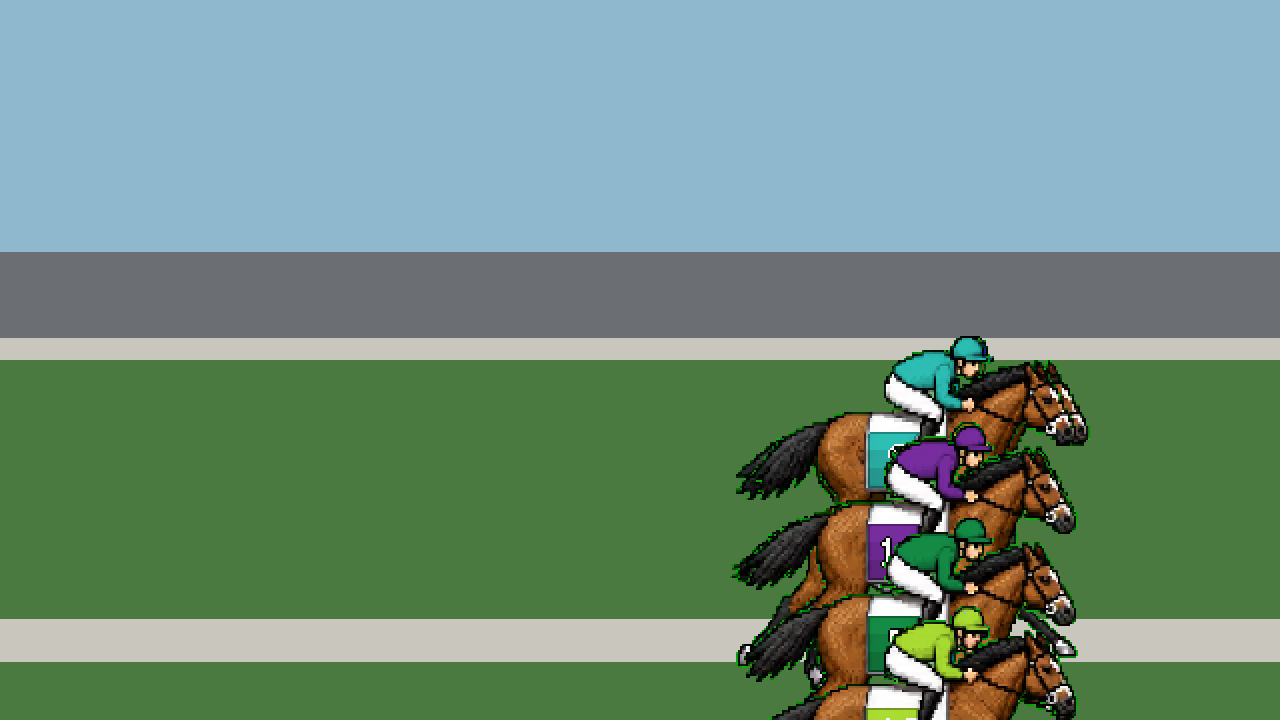
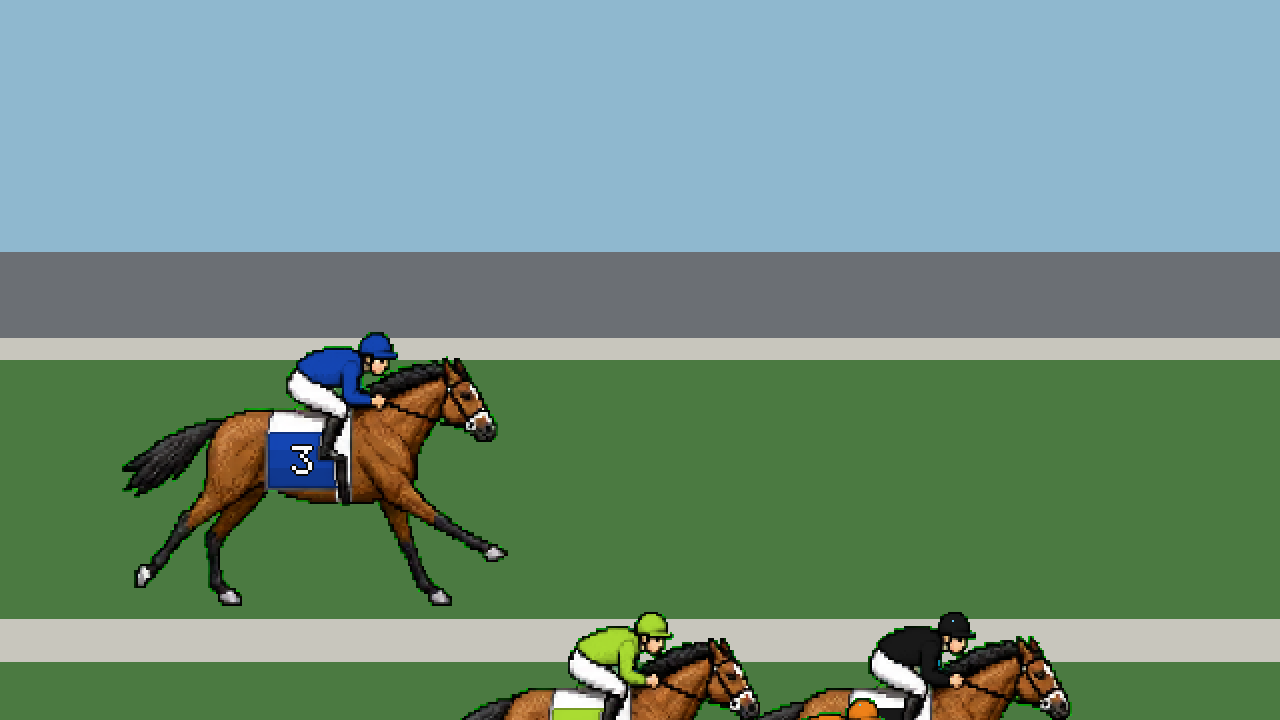
V-17 較正: TIME_GAP_FACTOR 0.55→0.045（差 35.0秒→2.66秒・着差ラベルも「大差33%」から解消）／走路の縮尺を画面から変えられるように

Changed region(s): [[0.3438, 0.4583, 0.875, 1.0], [0.0938, 0.4583, 0.4062, 0.8556]]

diff --git a/packages/race-engine/src/balance.ts b/packages/race-engine/src/balance.ts
@@ -409,7 +409,15 @@ export interface RaceBalance {
   SPEED_CONDITION_MULT: Readonly<Record<TrackCondition, number>>;
   /** 距離が伸びるほど平均速度が落ちる係数（1000m ごと） */
   SPEED_DISTANCE_DECAY_PER_1000M: number;
-  /** 着差→タイム変換の係数（正典 §8.7: 0.55） */
+  /**
+   * 着差→タイム変換の係数（正典 §8.7）。
+   *
+   * ★**スコアは順位を決める道具であって、物理量ではありません**（裁定 2026-08-13）。
+   *   > 順位はスコアの大小で決まり、タイム差はその順位の見せ方にすぎません。
+   *   > 両者の写像は独立に決められます。
+   *
+   * ⚠ ここは**表示と記録にしか影響しません**。着順・V-4/V-5/V-6・払戻には触れません。
+   */
   TIME_GAP_FACTOR: number;
 }
 
@@ -481,7 +489,31 @@ export const DEFAULT_RACE_BALANCE: RaceBalance = {
   SPEED_SURFACE_MULT: { turf: 1.0, dirt: 0.975 },
   SPEED_CONDITION_MULT: { good: 1.0, yielding: 0.99, soft: 0.975, bad: 0.96 },
   SPEED_DISTANCE_DECAY_PER_1000M: 0.022,
-  TIME_GAP_FACTOR: 0.55,
+  /**
+   * ★**0.55 → 0.045**（V-17 に合わせて較正・2026-08-14）
+   *
+   * 【何が起きていたか】
+   *   1着と最下位の差が **35.0秒 ＝ ゴール時点で 415m** でした（実際の1600m戦は 2〜4秒）。
+   *   ★能力・脚質・距離適性を**全部同一にしても 34.7秒**。能力差ではなく、
+   *     **順位の不確実さを作る乱数を、そのままタイム差に写していた**ためです（二重に効いていた）。
+   *
+   * 【★決め打ちしていません】
+   *   `tools/verify-v17.mjs` で掃引しました（1600m・200レース・差の p10/中央/p90）:
+   *     0.55  → 25.74 / 33.06 / 44.63 秒   FAIL
+   *     0.07  →  3.28 /  4.21 /  5.68 秒   FAIL（中央が 4秒を超える）
+   *     0.05  →  2.34 /  3.01 /  4.06 秒   PASS（★p90 が 4秒をわずかに超える）
+   *     0.045 →  2.11 /  2.70 /  3.65 秒   ★**PASS。p10〜p90 が 2〜4秒に完全に収まる**
+   *     0.04  →  1.87 /  2.40 /  3.25 秒   PASS（ただし着差ラベルが潰れ始める）
+   *     0.03  →  1.40 /  1.80 /  2.43 秒   FAIL（中央が 2秒を割る）
+   *     0     →  0.00 /  0.00 /  0.00 秒   ★**FAIL（全馬同着＝別の破綻。下限が効いている）**
+   *
+   * 【★副作用も測りました】着差ラベルの分布（1600m・300レース）:
+   *     0.55  → **3頭に1頭が「大差」**（33%）／8馬身 16%／5馬身 13%
+   *     0.045 → クビ 12%／1/2馬身 14%／3/4馬身 14%／1 1/2馬身 13%
+   *     0.04  → ハナ 13%／アタマ 13%（★今度は同着寄りに潰れ始める）
+   *   ★**0.045 は、差の分布と着差ラベルの両方が同時に成り立つ値**です。
+   */
+  TIME_GAP_FACTOR: 0.045,
 };
 
 /** 着差ラベル（正典 §8.7。明記された4段＋延長分は I-MARGIN-LABELS） */

diff --git a/apps/web/src/app/watch/page.tsx b/apps/web/src/app/watch/page.tsx
@@ -106,6 +106,8 @@ export default function WatchPage(): React.JSX.Element {
   const [ownGate, setOwnGate] = useState(3);
   const [jostle, setJostle] = useState(0.25);
   const [cruise, setCruise] = useState(DEFAULT_PHASE_RATES.cruise);
+  /** ★走路の縮尺。実測: 55→5頭 / 30→8頭 / 20→10頭 / 14→12頭（残り1500m・1倍） */
+  const [pxm, setPxm] = useState(24);
   const [playing, setPlaying] = useState(false);
   const [ready, setReady] = useState(false);
   const [built, setBuilt] = useState<Built | null>(null);
@@ -163,9 +165,11 @@ export default function WatchPage(): React.JSX.Element {
       animSec: d,
       // ★ハロン棒（間隔は画面が発明しない）
       poleEveryMeter: 200,
+      // ★走路の縮尺。見て決める数字なので画面から変えられます
+      pxPerMeter: pxm,
     }, sec);
     drawFrame(ctx, frame, atlas, VIEW);
-  }, [built, ownGate]);
+  }, [built, ownGate, pxm]);
 
   /**
    * ★**画像が届いたら描き直します。**
@@ -258,6 +262,14 @@ export default function WatchPage(): React.JSX.Element {
             onChange={(e) => setCruise(Number(e.target.value))}
           />
           {' '}{cruise.toFixed(1)}倍
+        </label>
+        <label title="走路の縮尺。小さいほど広く映る（馬は重なる）">
+          縮尺{' '}
+          <input
+            type="range" min={12} max={55} step={2} value={pxm}
+            onChange={(e) => setPxm(Number(e.target.value))}
+          />
+          {' '}{pxm}px/m（{Math.round(1280 / pxm)}m 幅）
         </label>
         <label title="D-061 改訂: 別ストリームの揺らぎ。着順は動かない">
           揺らぎ{' '}

diff --git a/packages/render/src/scene.ts b/packages/render/src/scene.ts
@@ -143,8 +143,23 @@ export interface SceneInput {
    */
   readonly laneOf?: ((gate: number) => number) | undefined;
   /**
-   * ★1m あたりの画素。省略時は**スプライトの実寸から決まります**（220px = 4m）。
-   *   ⚠ 小さくすると馬群が重なります。**演出のつまみではありません。**
+   * ★**走路の縮尺**（1m あたりの画素）。省略時はスプライトの実寸から（220px = 4m ＝ 55px/m）。
+   *
+   * 【★これは「演出のつまみ」です。ただし勝手に決めません】
+   *   ⚠ かつて **0.6px/m**（150倍のずれ）にして**全馬が団子**になりました。
+   *      そのとき「縮尺は演出ではない」と書きましたが、**言い過ぎでした**。
+   *   ★実際の2D競馬の画作りは、**馬を重ねて描いて走路を圧縮しています**
+   *     （参照画像でも馬体が重なっており、1馬身離れた馬が重なって描かれています）。
+   *
+   * 【実測】1280px 幅で、1倍のとき画面に映る頭数（60レース・中央値）
+   *   ```
+   *   55px/m … 23m …  5 / 2 / 3 頭（残り1500 / 1200 / 900m）★いまの既定
+   *   30px/m … 43m …  8 / 3 / 4
+   *   20px/m … 64m … 10 / 4 / 5
+   *   14px/m … 91m … 12 / 6 / 7
+   *   ```
+   *   ★参照とする中継の画作りは **6〜9頭**が同時に映ります。
+   *   ⚠ ただし**どれが良いかは見て決まります**。だから画面から変えられるようにしてあります。
    */
   readonly pxPerMeter?: number | undefined;
   /**

diff --git a/STAR_SPEC_v2.0.md b/STAR_SPEC_v2.0.md
@@ -80,6 +80,7 @@
 | D-017 | **スタミナゲージの消費をレース時間に対する割合で定義**（§8b.2）。絶対値 1.0/秒 では 2000m（約120秒）で必ず 0 になり、介入の巧拙が結果に出なかった（レビュー側の誤り） | 2026-08-05 |
 | D-018 | **出走馬を同格帯（クラス）から組むことを §10.4 に明記**。無作為抽選だと1番人気勝率が51%になり V-4 が壊れる | 2026-08-05 |
 | D-042 | **staging プロジェクトの用意を P3 の着手条件にする**（§14.6・R-24）。R-24 で状態を変える16ツールに本番拒否ガードを入れたが、**staging が存在しない**（Supabase の認証情報が本番1組のみ）ため、**それらのツールは現在どこにも向けられない**。A-2 のような破壊試験を HEAD で取り直すこと（R-23）が**原理的に不可能**になっている。P3 は育成ループとポイント台帳を扱うので、破壊試験なしでは進められない。**オーナー手配事項** | 2026-08-10 |
+| D-064 | **`TIME_GAP_FACTOR` を下げる（A を採用）。スコア差の圧縮（B）は採らない**（§8.7・Q-P4-23/24）。実測: 同クラス12頭・1600m で **1着 99.9秒／最下位 134.9秒＝35.0秒差（415m）**。実際の1600m戦は 2〜4秒（30〜60m）で **10倍**。**★開発側が能力・脚質・距離適性を全部同一にしても 34.7秒と縮まないことを実測**したので、能力差由来ではなく**乱数由来**と確定した。→ **スコアの64%の開きは `RACE_RANDOM_K = 0.22` そのもの**であり、**V-4（1番人気の勝率30〜34%）を成立させている当の値**。**B（スコア差を4〜7%に）は V-4 を確実に壊す。** → **★スコアは順位を決める道具であって物理量ではない。** 順位はスコアの大小で決まり、**タイム差はその順位の見せ方**にすぎないので、両者の写像は独立に決められる。`TIME_GAP_FACTOR` は**表示と記録にしか影響せず、着順・V-4/V-5/V-6・払戻に触れない**。**★ただし数値を決め打ちせず、V-17（新設）を満たすように較正する** | 2026-08-13 |
 | D-063 | **道中の位置は「結果から逆算できない」形にする。V-16 は増分で測る**（§8.6・§12.8・Q-P4-18/19）。実測: **位置の順位＋脚質だけで、スタート直後 AUC 0.928・レース中ずっと平坦**（0.928/0.928/0.932）。**情報なら増えるはずで、増えないのは最初から答えが映っているから。** 原因は **D-061 の「新しい乱数を引かない」**で、位置(t) = f(走破タイム, 脚質, ペース) が**可逆**になっていた。**★D-061 の制約はレビュー側の誤り** — 正しくは「**結果に影響する乱数を引かない**」。→ ①**表示位置に、別ストリームから引く決定的な揺らぎを入れる**（シードから再計算できるので Provably Fair は保たれ、`resolveRace` に触れないので再較正も不要。**ゴールで揺らぎは消え、着順は厳密に一致**）②**V-16 は「スタート時点で分かること」を差し引いた増分で測る**（③④を追加）。**★前提の訂正: エンジンは道中を模擬していない**（最終スコアだけを計算する）。**道中は元から演出であり、問うべきは「真実か演出か」ではなく「漏らす演出か、劇になる演出か」である** | 2026-08-13 |
 | D-062 | **道中の情報不足は「飾り」でも「エンジンの改造」でもなく、時間配分で解く**（§12.8・Q-P4-15）。実測: **1600m のうち最初の1000m（62%）は、画面を見るより出走表を見たほうが正確**（AUC 0.540/0.526/0.605 対 0.747）。**位置は嘘をつく** — 逃げ馬が前にいるのは強いからではないため、位置のみだと AUC 0.431 で**何も見ないより悪い**。→ **①A を採る（道中を短くする）。ただし「切る」のではなく「情報量に比例して時間を配分する」** — 道中は速く送り、勝負所以降を実時間かそれ以上に伸ばす。**描画層（D-059 の補間）だけで実装でき、境界時刻・着順・ゲートに一切触れない** ②**B（エンジンに道中で決まることを作る）は採らない** — 不利や交通を入れれば P0〜P3 の較正が全部やり直しになり、**A を試す前に機構を足す理由がない** ③**副産物として C-6 が楽になる**（勝負所の実時間が伸び、人間が読んで押す余地が増える）。**A で足りなければ B はオーナー判断**（P0〜P3 の再較正を開くため） | 2026-08-13 |
 | D-061 | **区間ペースはエンジンが持つ。ただし発明ではなく既存値からの導出に限る**（§8.4・§12.8・Q-P4-11）。**レビュー側がソースを確認した事実**: ①`strategyCoef` は **展開（ペース）× 脚質適性**で結果に効いている（`coefficients.ts:134-142`）②ペースは **逃げ馬の頭数**から決まる（`race.ts:97`）③`spurtAtMeter` は**距離上の位置**を持つ（`intervention.ts:317`）。→ **「逃げ馬が前半先行する」「追込馬が後方から来る」は、engine が既に割り当てて結果に使っている属性の意味そのもの**であり、発明ではない。**★制約3件**: ①**新しい乱数を引かない**（既に計算済みの値からの決定的導出のみ。引けば映像が結果と別系列の作り話になる）②**最終着順と走破タイムを1ミリも動かさない**（位置軌跡は時間の再パラメータ化であって結果の再計算ではない）③**導出の前後で V-4/V-5/V-6/V-8/V-9a/V-13 が完全一致すること**（結果に触れていないなら値は1ビットも動かないはず。動いたら触れている） | 2026-08-13 |
@@ -1543,6 +1544,7 @@ export const BALANCE = {
 | V-10 | 払戻率（券種別） | 設定 margin ±1%（§9 確定後） | P2 |
 
 > **★V-10 の測定条件**（2026-08-09・D-036）: 旧記述「10万レース」は **M≒390万との積が 3.9×10¹¹ 回＝約44日**となり実行不能。**分散低減として「1レースあたり確定を多数回引く」形に改める。** ただし **レース数を1にしてはならない** — 残差は出走表の確率構造で変わるので、**1つの出走表を精密に測っても、出走表間のばらつきは測れない**（R-20）。**レース数 × 1レースあたり確定回数**の両方を報告し、**出走表間 SD を出したうえで、プール SE ≤ 0.25pt** となるレース数を選ぶ（10シード判定と同じ規律）。
+| **V-17** | **走破タイムの分布**（§8.7） | **①勝ち時計が距離ごとに現実的な範囲**（1600m で 93〜101秒）**かつ ②1着と最下位の差が 2〜4秒**（1600m。**上限だけでなく下限も要る** — 0 にすると全馬同着になり、毎レース横一線という別の破綻になる） | **P4**（★2026-08-13・D-064） |
 | **V-16** | **画面が情報を運んでいること**（観戦の可読性） | **★2026-08-13・D-063 で改訂。「増分」で測る。** ①**全局面で 画面ボット ≥ 出走表ボット**（見ることが損にならない）②**勝負所以降で 画面ボット > 出走表ボット ＋有意差** ③**★スタート直後の画面ボット − 出走表ボット が小さいこと**（レース開始時点で答えが映っていない）④**★画面ボットの AUC が局面とともに上がること**（見続ける価値がある。平坦なら「最初から答えが映っている」） | **P4**（★2026-08-13・D-062。**画面に描かれた情報だけを見るボット**が「自馬は3着以内か」を予想し、**出走表だけを見るボット**と AUC で比べる） |
 
 > **★V-16 が両側である理由**（R-16）: ①だけなら **画面に出走表を貼れば満たせる**（画面ボット＝出走表ボットになる）。それは「レースが何も運んでいない」状態を通す。②が「レースそのものが情報を運ぶ」ことを要求する。
